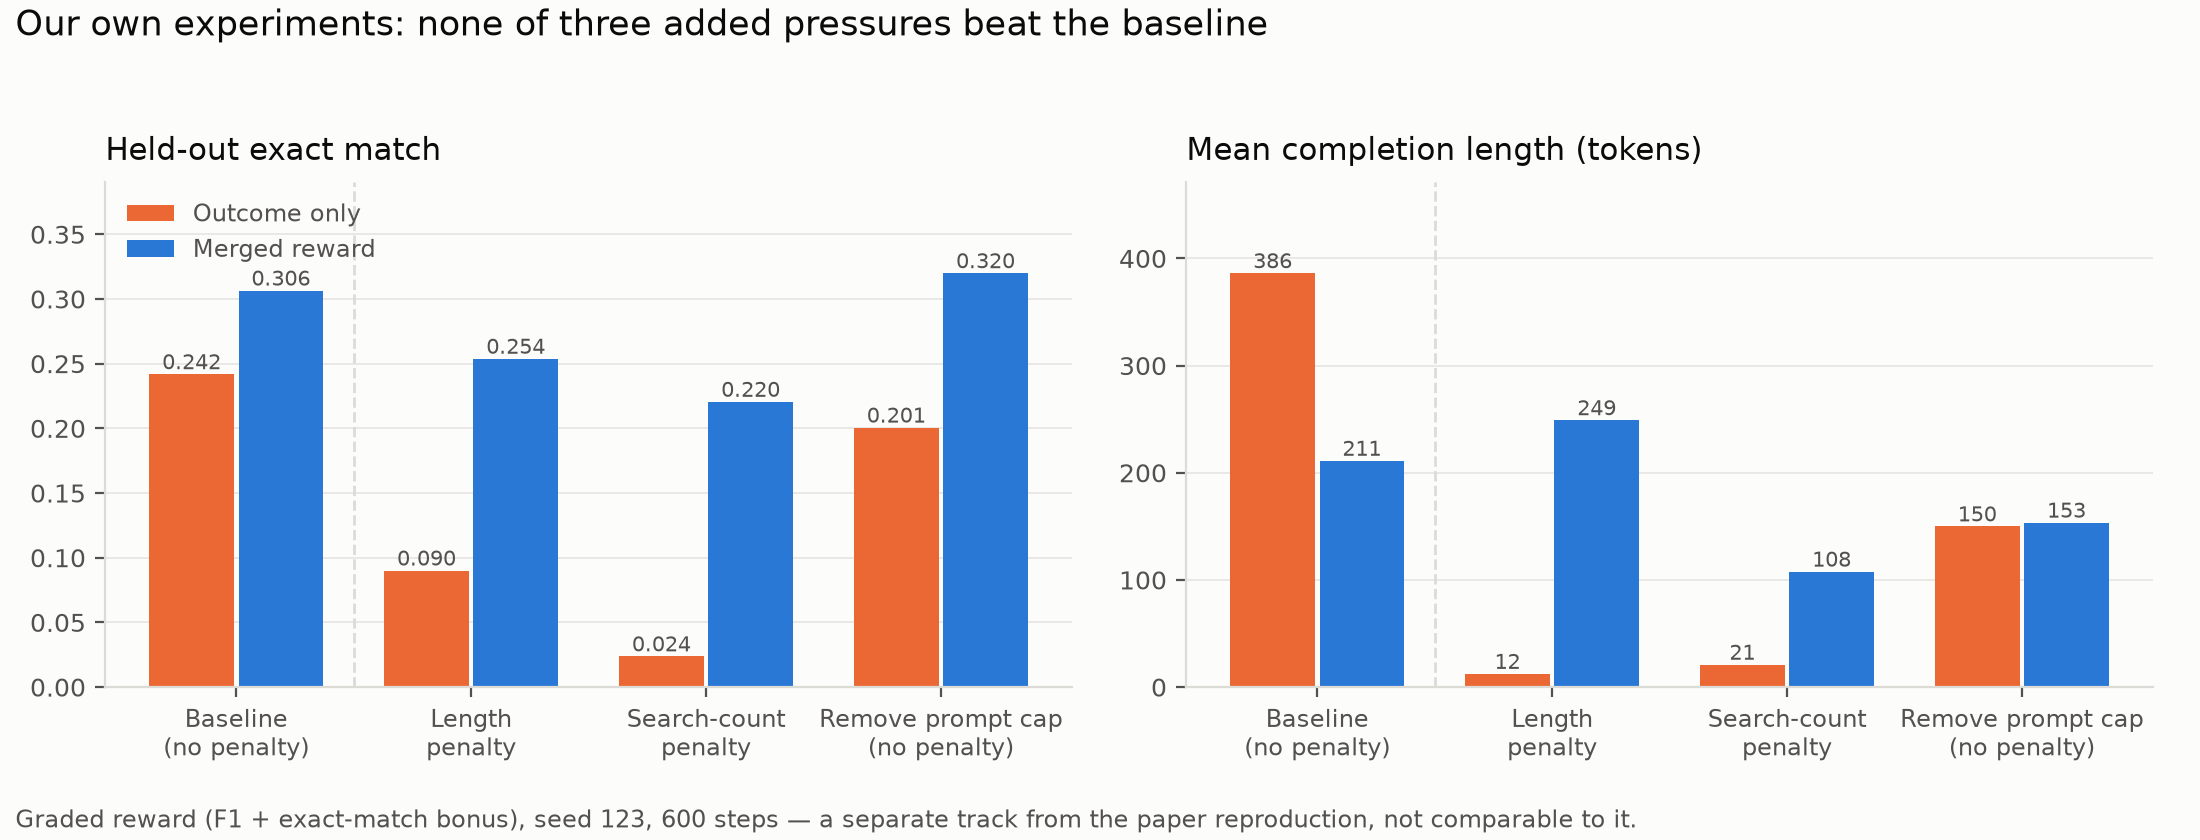
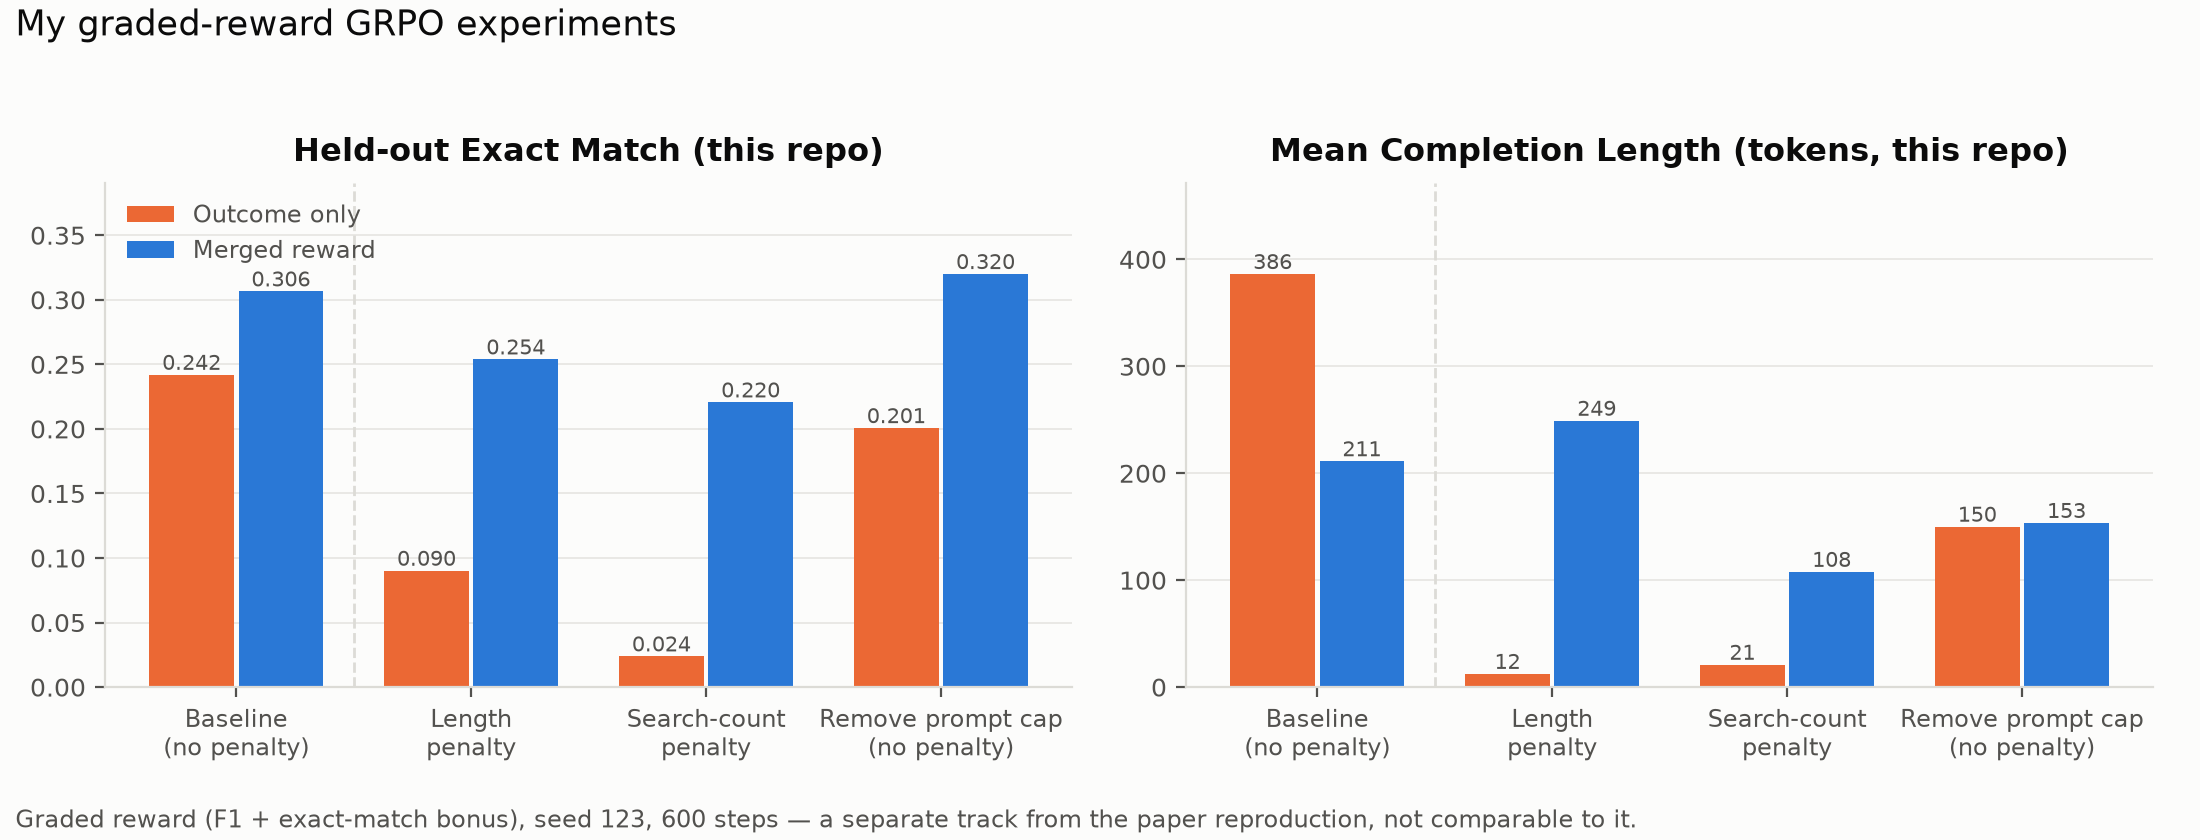
Paper-style figure titles/axes, first-person voice, tighter collapse prose

diff --git a/scripts/plot_phase7c.py b/scripts/plot_phase7c.py
@@ -92,7 +92,7 @@ def plot_vs_paper(summary: dict, out: Path) -> None:
     y = range(len(arms))
     fig, (em_ax, fmt_ax) = _fig(11, 4.2, ncols=2)
 
-    for ax, idx, title in ((em_ax, 0, "Exact match"), (fmt_ax, 1, "Format correctness")):
+    for ax, idx, title in ((em_ax, 0, "Exact Match"), (fmt_ax, 1, "Format Correctness")):
         ours, paper = [], []
         for arm in arms:
             m = summary[ARM_KEYS[arm]]
@@ -146,7 +146,7 @@ def plot_vs_paper(summary: dict, out: Path) -> None:
         ax.set_yticks(list(y), arms, fontsize=9.5)
         ax.invert_yaxis()
         ax.set_xlim(0, span)
-        ax.set_title(title, fontsize=11, color=INK, pad=8, loc="left")
+        ax.set_title(title, fontsize=11.5, color=INK, weight="bold", pad=8)
 
     fig.suptitle(
         "This reproduction vs. the paper's published results",
@@ -203,8 +203,10 @@ def plot_collapses(curves: dict, out: Path) -> None:
         xs = [p[0] for p in curves[arm]["reward"]]
         ys = [p[1] for p in curves[arm]["reward"]]
         g_ax.plot(xs, _smooth(ys), color=colour, linewidth=2.2)
-    g_ax.set_title("GRPO track", fontsize=11, color=INK, loc="left", pad=8)
-    g_ax.set_ylabel("mean training reward", fontsize=9.5, color=INK_SOFT)
+    g_ax.set_title(
+        "Training Reward (GRPO, this repo)", fontsize=11.5, color=INK, weight="bold", pad=8
+    )
+    g_ax.set_ylabel("Reward", fontsize=10, color=INK_SOFT)
     g_ax.set_ylim(0, 0.78)
     g_ax.text(300, 0.045, "GRPO-OR", fontsize=9.5, color=LOSS)
     g_ax.text(255, 0.60, "GRPO-MR", fontsize=9.5, color=INK_SOFT)
@@ -217,26 +219,20 @@ def plot_collapses(curves: dict, out: Path) -> None:
             color=colour,
             linewidth=2.2 if colour == LOSS else 1.8,
         )
-    p_ax.set_title("PPO track", fontsize=11, color=INK, loc="left", pad=8)
-    p_ax.set_ylabel("share of rollouts with a parseable answer", fontsize=9.5, color=INK_SOFT)
+    p_ax.set_title(
+        "Format Correctness (PPO, this repo)", fontsize=11.5, color=INK, weight="bold", pad=8
+    )
+    p_ax.set_ylabel("Format Correctness", fontsize=10, color=INK_SOFT)
     p_ax.set_ylim(0, 1.05)
     p_ax.text(145, 0.07, "PPO-OR", fontsize=9.5, color=LOSS)
     p_ax.text(112, 0.44, "PPO-MR", fontsize=9.5, color=OURS)
     p_ax.text(400, 0.57, "MT-PPO", fontsize=9.5, color=GAIN)
 
     for ax in (g_ax, p_ax):
-        ax.set_xlabel("training step", fontsize=9.5, color=INK_SOFT)
+        ax.set_xlabel("Step", fontsize=10, color=INK_SOFT)
         ax.set_xlim(0, 500)
 
-    fig.suptitle(
-        "Training reward and answer rate (our runs)",
-        fontsize=12.5,
-        color=INK,
-        x=0.007,
-        ha="left",
-        y=0.99,
-    )
-    fig.tight_layout(rect=(0, 0.01, 1, 0.94))
+    fig.tight_layout(rect=(0, 0.01, 1, 1))
     fig.savefig(out, dpi=200, facecolor=SURFACE)
     plt.close(fig)
 
@@ -264,24 +260,22 @@ def _ppo_curve(curves: dict, key: str, title: str):
     for name, arm, colour in PPO_ARMS:
         series = curves[arm]
         ax.plot(series["step"], _smooth(series[key]), color=colour, linewidth=2.0, label=name)
-    ax.set_xlabel("training step", fontsize=9, color=INK_SOFT)
-    fig.suptitle(title, fontsize=12.5, color=INK, x=0.011, ha="left", y=0.985)
+    ax.set_xlabel("Step", fontsize=10, color=INK_SOFT)
+    ax.set_title(title, fontsize=11.5, color=INK, weight="bold", pad=8)
     return fig, ax
 
 
 def plot_searches(curves: dict, out: Path) -> None:
     """Searches per episode: the arm with no search penalty is not the one that runs away."""
-    fig, ax = _ppo_curve(
-        curves, "mean_tool_turns", "Searches per episode during training (our runs)"
-    )
-    ax.set_ylabel("searches per episode", fontsize=9, color=INK_SOFT)
+    fig, ax = _ppo_curve(curves, "mean_tool_turns", "Searches per Episode (PPO, this repo)")
+    ax.set_ylabel("Searches per Episode", fontsize=10, color=INK_SOFT)
     ax.set_ylim(0, 4.4)
     # The cap is what makes "uncontrolled search" legible -- without it the reader cannot tell
     # whether 4 turns per episode is a lot.
     ax.axhline(4, color=LOSS, linewidth=1.0, linestyle="--")
     ax.text(20, 3.82, "4-turn cap", fontsize=8, color=LOSS, va="top")
     ax.legend(frameon=False, fontsize=8.5, loc="lower right", labelcolor=INK_SOFT)
-    fig.tight_layout(rect=(0, 0.04, 1, 0.93))
+    fig.tight_layout(rect=(0, 0.01, 1, 1))
     fig.savefig(out, dpi=200, facecolor=SURFACE)
     plt.close(fig)
 
@@ -313,8 +307,8 @@ def plot_followups(out: Path) -> None:
     fig, (em_ax, len_ax) = _fig(11, 4.2, ncols=2)
 
     for ax, key, title in (
-        (em_ax, "eval_exact_match", "Held-out exact match"),
-        (len_ax, "eval_completions/mean_length", "Mean completion length (tokens)"),
+        (em_ax, "eval_exact_match", "Held-out Exact Match (this repo)"),
+        (len_ax, "eval_completions/mean_length", "Mean Completion Length (tokens, this repo)"),
     ):
         for offset, (condition, colour, label) in enumerate(
             (("outcome_only", PAPER, "Outcome only"), ("turn_level", OURS, "Merged reward"))
@@ -338,7 +332,7 @@ def plot_followups(out: Path) -> None:
                     color=INK_SOFT,
                 )
         ax.set_xticks(list(x), labels, fontsize=8.5)
-        ax.set_title(title, fontsize=11, color=INK, pad=8, loc="left")
+        ax.set_title(title, fontsize=11.5, color=INK, weight="bold", pad=8)
         ax.grid(axis="x", visible=False)
         # Headroom for the value labels, and for the legend that sits over the left panel.
         ax.set_ylim(0, max(m[key] for r in runs.values() for m in r) * 1.22)
@@ -351,7 +345,7 @@ def plot_followups(out: Path) -> None:
     em_ax.legend(frameon=False, fontsize=8.5, loc="upper left", labelcolor=INK_SOFT)
 
     fig.suptitle(
-        "Our own experiments: none of three added pressures beat the baseline",
+        "My graded-reward GRPO experiments",
         fontsize=12.5,
         color=INK,
         x=0.007,

diff --git a/README.md b/README.md
@@ -13,7 +13,7 @@ holds up at a much smaller scale.
 
 Inspired by ["Reinforcing Multi-Turn Reasoning in LLM Agents via Turn-Level Reward
 Design"](https://arxiv.org/abs/2505.11821) (arXiv:2505.11821), specifically its GRPO and PPO case
-study. The reward designs below follow the paper's own definitions; experiments of our own are
+study. The reward designs below follow the paper's own definitions; experiments of my own are
 labelled as such and kept separate from the reproduction.
 
 **Biggest deviation**: a much smaller model on a single consumer GPU — `Qwen3.5-0.8B` on one
@@ -164,35 +164,31 @@ differs; across the GRPO/PPO divide the algorithm differs too, by design.
 
 Absolute scores were never going to match the paper's: this model is **8.75× smaller** on a batch
 **128× smaller**, and the paper's *untrained* `Qwen2.5-7B` already scores EM 0.160–0.292 — their
-model starts about where ours finishes. What is comparable is the structure: which rewards work,
+model starts about where mine finishes. What is comparable is the structure: which rewards work,
 which collapse, and by how much.
 
-### Why our `GRPO-OR` and `PPO-OR` collapsed when the paper's didn't
+### Why my `GRPO-OR` and `PPO-OR` collapsed when the paper's didn't
 
 Same reward, opposite fates — the only thing that changed is scale:
 
-| Run | Paper (Qwen2.5-7B, 8×H100) | Ours (Qwen3.5-0.8B, 1×RTX 4090) |
+| Run | Paper (Qwen2.5-7B, 8×H100) | Mine (Qwen3.5-0.8B, 1×RTX 4090) |
 |---|---|---|
 | `PPO-OR` | 0.435 EM | 0.002 EM |
 | `GRPO-OR` | 0.331 EM | 0.000 EM |
 
-![Both collapses during training, next to our runs that held](results/phase7c_collapses.png)
+![Both collapses during training, next to my runs that held](results/phase7c_collapses.png)
 
-`PPO-OR` stopped answering (format compliance 0.003) while posting the best retrieval score of any
-arm (0.528). Watch only the retrieval metric and the most broken arm looks like the best one.
+`PPO-OR` stopped answering while posting the best retrieval score of any arm. Watch only the
+retrieval metric and the most broken arm looks like the best one.
 
-`GRPO-OR` died differently. When every rollout in a group scores the same, GRPO's advantage is zero
-by construction; after step 184 its gradient is exactly 0.0000 and never recovers. `GRPO-MR` is the
-same arm plus the retrieval bonus, and it scores 0.295.
+`GRPO-OR` died differently: once every rollout in a group scores the same, GRPO's advantage is
+zero and the gradient goes to zero for good. `GRPO-MR` is the same arm plus the retrieval bonus,
+and it trained fine.
 
-Why did ours collapse when the paper's didn't? We haven't isolated that, so here is the hypothesis
-rather than a claim. Collapse needs a batch with zero correct answers: if one rollout is right
-with probability `p` and a batch holds `N` rollouts, that chance is `(1−p)^N`. Scale is the
-suspect — a smaller model shrinks `p`, a smaller batch shrinks `N`, and ours are much smaller on
-both counts (our weaker BM25 retrieval plausibly shrinks `p` further). But we never ran the
-paper's scale, so this is an inference from the mechanism, not a measured result. The test we'd
-run: retrain `GRPO-OR` with a larger rollout group — raising `N` alone — and see whether the
-collapse disappears.
+Why mine and not the paper's? My best guess is scale. Collapse starts with a batch that has zero
+correct answers, which gets more likely as the model gets weaker and the batch gets smaller —
+mine is much smaller on both. Unverified: I never ran the paper's scale. The test: step up
+through the model family (Qwen3.5 ships 2B and 4B) and see where the collapse stops.
 
 ### A search penalty is not what prevents runaway searching
 
@@ -209,9 +205,9 @@ that penalty at zero and settles near 2 searches per episode. What actually boun
 direction, larger magnitude. Format compliance rose 0.642 → 0.830. Every arm is a single run, so
 read the direction as the reproduction and the magnitude loosely.
 
-### Our own experiment: a narrow reward is fragile to added penalties
+### My own experiment: a narrow reward is fragile to added penalties
 
-Separately, we stress-tested a GRPO variant using graded partial credit (F1 + exact-match bonus)
+Separately, I stress-tested a GRPO variant using graded partial credit (F1 + exact-match bonus)
 under added penalties (seed 123, 600 steps):
 
 | Configuration | Outcome-only EM | Merged-reward EM |
